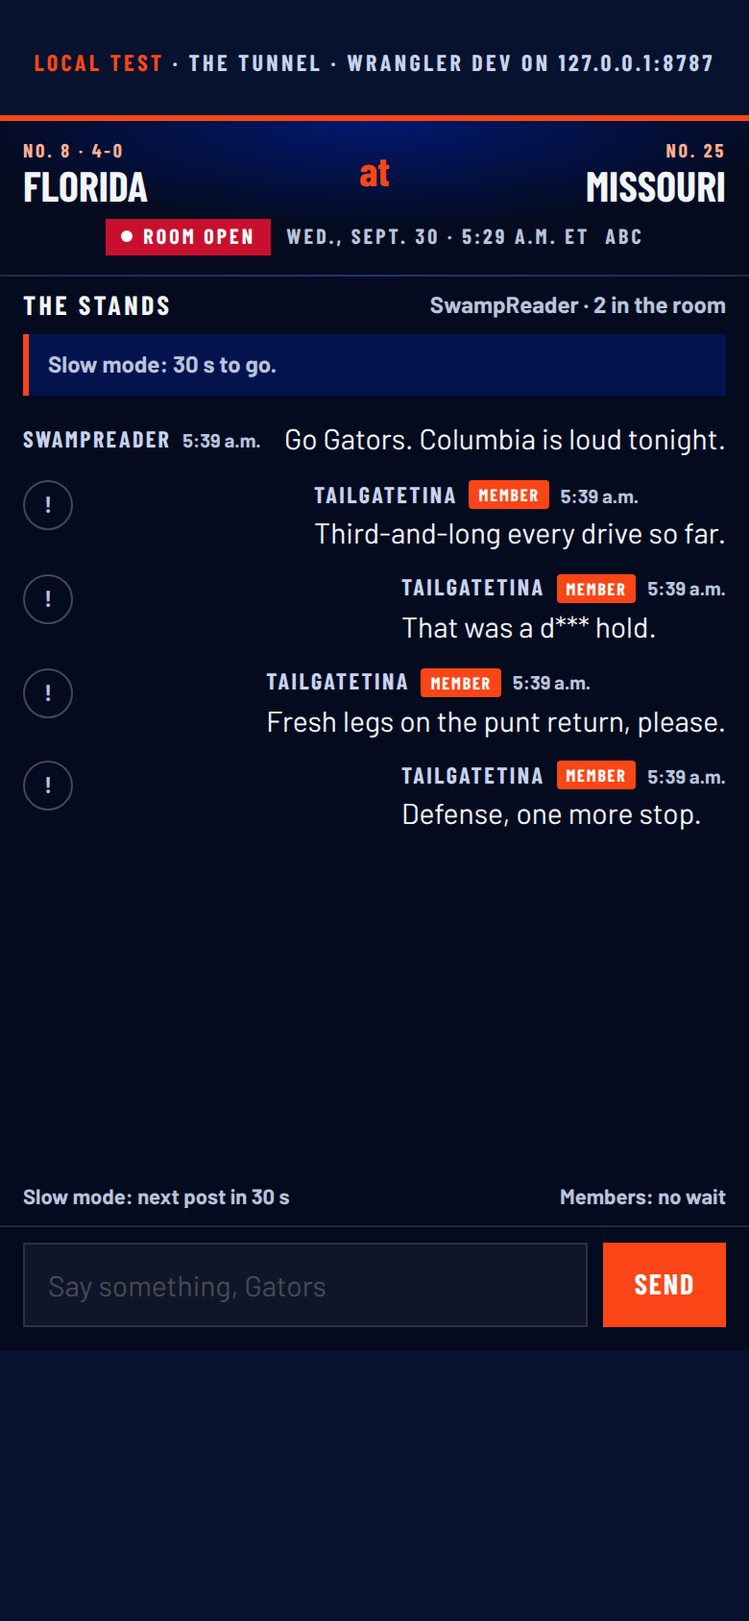
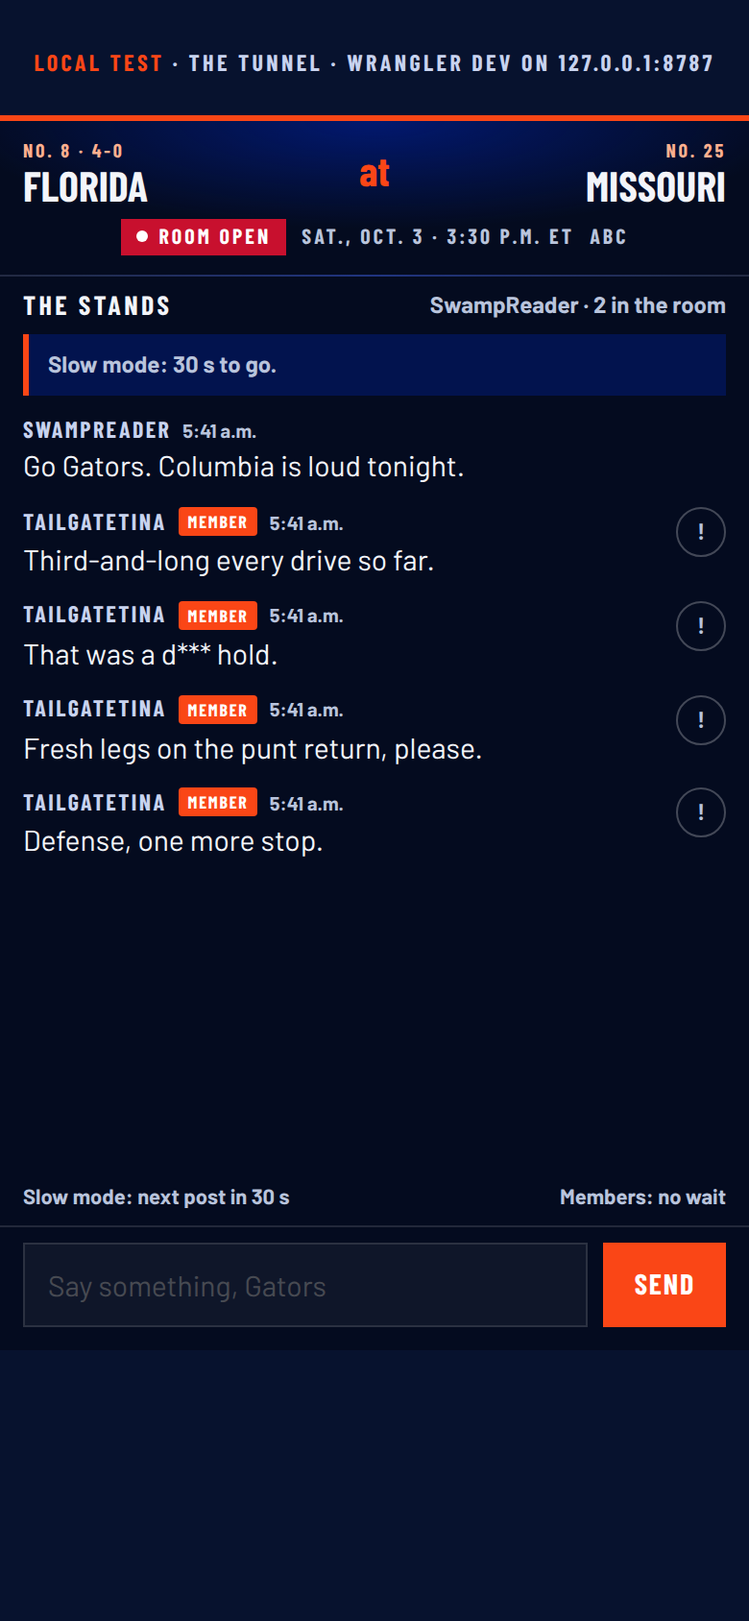
Department ideas, round two: Chat ships The Stands, a Cloudflare Durable Object room proved locally with 21 browser checks
Worker + client run under wrangler dev with two Chromium contexts and three raw sockets: kickoff lock from the real scoreboard, slow mode, server-side word filter, member badge, reports and moderator queue, 200-message ring buffer, closed-room countdown state. Cloudflare account reachable, zero Workers deployed.

Claude-Session: https://claude.ai/code/session_01QUnBu7zkHLGEmUEfSvE4Wp

Changed region(s): [[0.0308, 0.2464, 0.9846, 0.5237], [0.1231, 0.1232, 0.5231, 0.154], [0.5538, 0.1232, 0.8615, 0.154]]

diff --git a/deploy/dept-ideas/chat/preview.html b/deploy/dept-ideas/chat/preview.html
@@ -1,77 +1,57 @@
-<!doctype html><html lang="en"><head><meta charset="utf-8"><meta name="viewport" content="width=device-width,initial-scale=1"><title>The Stands — GatorBait Live Chat</title>
+<!doctype html><html lang="en"><head><meta charset="utf-8"><meta name="viewport" content="width=device-width,initial-scale=1"><title>The Stands — local run</title>
 <link rel="preconnect" href="https://fonts.gstatic.com" crossorigin><link href="https://fonts.googleapis.com/css2?family=Barlow+Condensed:wght@700;800&family=Barlow:wght@400;600;700&display=swap" rel="stylesheet">
 <style>
 :root{--n:#07122e;--b:#0021a5;--o:#fa4616;--ink:#f3f5fa;--mut:#b9c4dc;--c:"Barlow Condensed","Barlow",sans-serif;--s:"Barlow",sans-serif}
-*{box-sizing:border-box}html,body{margin:0;background:var(--n);color:var(--ink);font:16px/1.45 var(--s)}
-.wrap{max-width:430px;margin:0 auto;height:100vh;height:100dvh;display:flex;flex-direction:column}
-.note{margin:0;padding:8px 12px;font:700 11px/1.3 var(--c);letter-spacing:.14em;text-transform:uppercase;color:var(--mut);text-align:center}.note b{color:var(--o)}
-.tabs{display:flex;gap:6px;padding:0 12px 8px}
-.tabs button{flex:1;min-height:36px;background:none;color:var(--ink);border:2px solid rgba(255,255,255,.25);font:800 12px/1 var(--c);letter-spacing:.1em;text-transform:uppercase;cursor:pointer}
-.tabs button[aria-pressed=true]{background:var(--o);border-color:var(--o)}
-.room{flex:1;display:flex;flex-direction:column;min-height:0;background:#040b1f;border-top:3px solid var(--o)}
-.strip{display:grid;grid-template-columns:1fr auto 1fr;align-items:center;gap:6px 10px;padding:10px 12px;background:radial-gradient(80% 100% at 50% 0,rgba(0,33,165,.6),transparent 70%);border-bottom:1px solid rgba(255,255,255,.12)}
-.t{display:grid;gap:3px}.t small{font:700 10px/1 var(--c);letter-spacing:.14em;text-transform:uppercase;color:#ffb08f}.t b{font:800 22px/1 var(--c);text-transform:uppercase}.t.h{text-align:right}
-.sc{display:flex;gap:8px;align-items:baseline;font:800 36px/1 var(--c);font-variant-numeric:tabular-nums}.sc i{color:var(--o);font-style:normal;font-size:.6em}
-.clk{grid-column:1/-1;display:flex;justify-content:center;align-items:center;gap:8px;font:700 11px/1 var(--c);letter-spacing:.14em;text-transform:uppercase;color:var(--mut)}
-.clk em{display:inline-flex;align-items:center;gap:6px;padding:4px 8px;background:#c8102e;color:#fff;font-style:normal;font-weight:800}.clk em::before{content:"";width:6px;height:6px;border-radius:50%;background:#fff}
-.show{grid-column:1/-1;text-align:center;display:grid;gap:4px}.show b{font:800 26px/1 var(--c);text-transform:uppercase}
-.hd{display:flex;justify-content:space-between;align-items:center;padding:8px 12px;font:800 14px/1 var(--c);letter-spacing:.12em;text-transform:uppercase}.hd span{font:600 12px/1 var(--s);letter-spacing:0;text-transform:none;color:var(--mut)}
-.sys{margin:0 12px 8px;padding:8px 10px;background:rgba(0,33,165,.35);border-left:3px solid var(--o);font:600 12px/1.4 var(--s);color:var(--mut)}
-.feed{flex:1;overflow-y:auto;padding:4px 12px 8px;display:flex;flex-direction:column;gap:10px;min-height:0}
-.p{display:grid;grid-template-columns:1fr auto;gap:2px 8px;animation:in .3s ease-out}@keyframes in{from{opacity:0;transform:translateY(6px)}}
-.who{display:flex;gap:6px;align-items:center;font:700 12px/1 var(--c);letter-spacing:.1em;text-transform:uppercase;color:#c8d3ef}.who time{font:600 10px/1 var(--s);letter-spacing:0;text-transform:none;color:var(--mut)}
-.bd{padding:3px 5px;border-radius:2px;background:var(--o);color:#fff;font:800 9px/1 var(--c);letter-spacing:.1em}.bd.s{background:var(--b)}
-.p p{margin:0;font-size:15px}
-.rp{grid-row:1/3;align-self:start;width:26px;height:26px;border-radius:50%;border:1px solid rgba(255,255,255,.25);background:none;color:var(--mut);font:800 12px/1 var(--c);cursor:pointer}.rp.on{background:var(--o);border-color:var(--o);color:#fff}
-.slow{display:flex;justify-content:space-between;padding:0 12px 6px;font:600 11px/1.3 var(--s);color:var(--mut)}
-.in{display:flex;gap:8px;padding:8px 12px 12px;border-top:1px solid rgba(255,255,255,.12)}
-.in input{flex:1;min-width:0;min-height:44px;padding:0 12px;background:rgba(255,255,255,.08);border:1px solid rgba(255,255,255,.2);color:var(--ink);font:400 15px var(--s)}.in input:disabled{opacity:.6}
-.in button{min-height:44px;padding:0 16px;border:0;background:var(--o);color:#fff;font:800 15px/1 var(--c);letter-spacing:.06em;text-transform:uppercase;cursor:pointer}
-.quiet{display:none;flex:1;align-content:center;gap:10px;padding:24px 16px;text-align:center}.quiet h2{margin:0;font:800 30px/1 var(--c);text-transform:uppercase}.quiet p{margin:0;font-size:14px;color:var(--mut)}.quiet b{color:var(--ink)}
-.cd{display:flex;justify-content:center;gap:12px;font:800 44px/1 var(--c);font-variant-numeric:tabular-nums}.cd span{display:grid}.cd i{font:700 10px/1 var(--c);letter-spacing:.14em;color:#ffb08f;font-style:normal}
-.room[data-mode=quiet] .quiet{display:grid}.room[data-mode=quiet] .feed,.room[data-mode=quiet] .sys,.room[data-mode=quiet] .slow{display:none}
-@media(prefers-reduced-motion:reduce){.p{animation:none}}
+*{box-sizing:border-box}html,body{margin:0;background:var(--n);color:var(--ink);font:16px/1.5 var(--s)}
+.wrap{max-width:1100px;margin:0 auto;padding:20px 16px 40px}
+.k{margin:0;font:700 12px/1.3 var(--c);letter-spacing:.14em;text-transform:uppercase;color:#c8d3ef}.k b{color:var(--o)}
+h1{margin:6px 0 4px;font:800 clamp(34px,7vw,56px)/.95 var(--c);text-transform:uppercase}
+.lede{margin:0 0 18px;max-width:760px;color:var(--mut)}
+.res{display:grid;grid-template-columns:repeat(auto-fit,minmax(150px,1fr));gap:10px;margin:0 0 22px}
+.res div{padding:12px;background:#040b1f;border-top:3px solid var(--o)}.res b{display:block;font:800 30px/1 var(--c)}.res span{font:600 12px/1.3 var(--s);color:var(--mut)}
+h2{margin:26px 0 8px;font:800 22px/1 var(--c);text-transform:uppercase;letter-spacing:.02em}
+.shots{display:grid;grid-template-columns:repeat(auto-fit,minmax(280px,1fr));gap:16px}
+figure{margin:0;background:#040b1f;padding:10px}figure img{display:block;width:100%;height:auto;border:1px solid rgba(255,255,255,.12)}
+figcaption{padding:8px 2px 0;font:600 12px/1.4 var(--s);color:var(--mut)}figcaption b{display:block;font:800 13px/1.2 var(--c);letter-spacing:.1em;text-transform:uppercase;color:var(--ink)}
+.desk{grid-column:1/-1}
+ol{margin:0;padding-left:20px;columns:1;color:var(--ink)}ol li{margin:0 0 4px;font-size:15px}ol li::marker{color:var(--o);font:800 13px var(--c)}
+@media(min-width:821px){ol{columns:2;column-gap:32px}}
+code{font:600 13px/1.4 ui-monospace,monospace;color:#ffb08f}
+.foot{margin-top:26px;padding-top:12px;border-top:1px solid rgba(255,255,255,.12);font-size:13px;color:var(--mut)}
 </style></head><body><div class="wrap">
-<p class="note"><b>Mockup</b> · simulated game, fictional handles</p>
-<div class="tabs" role="group" aria-label="Preview state"><button aria-pressed="true" data-m="game">Game day</button><button aria-pressed="false" data-m="quiet">Quiet room</button><button aria-pressed="false" data-m="show">Show night</button></div>
-<section class="room" data-mode="game" aria-label="The Stands, GatorBait live chat">
-<div class="strip" id="strip"></div>
-<div class="hd">The Stands <span>Signed in with Wix Members</span></div>
-<p class="sys" id="sys"></p>
-<div class="feed" id="feed" aria-live="polite"></div>
-<div class="quiet" id="quiet"></div>
-<div class="slow"><span id="slow">Slow mode: one post every 30 seconds</span><span>Members: no wait</span></div>
-<form class="in" id="f"><input id="msg" maxlength="240" autocomplete="off" placeholder="Say something, Gators" aria-label="Message"><button type="submit">Send</button></form>
-</section></div>
-<script>
-(function(){
-var $=function(s){return document.getElementById(s)};var esc=function(s){return String(s).replace(/[&<>"]/g,function(c){return{'&':'&amp;','<':'&lt;','>':'&gt;','"':'&quot;'}[c]})};
-var KICK=Date.parse('2026-10-03T19:30:00Z'),secs=8*60+14,mode='game';
-var SYS={game:'Members-only mode ran for the first five minutes after kickoff. The room is open to every signed-in reader now. Slow mode is on.',show:'Show night. Buddy is live on YouTube and Facebook. End a post with a question mark and it lands on the producer\'s screen.'};
-var POSTS=[['TailgateTina','Columbia is loud tonight. Third-and-long every drive so far.','m'],['SwampThing_91','That screen pass was drawn up perfectly. Run it again.'],['BullGatorBob','Buddy said Tuesday it would come down to the offensive line. Here we are.','m'],['MizzouNeighbor','Respect from the gold side. Your defensive line is a problem.'],['AlbertsCousin','Timeout? Why now?'],['GatorBait Staff','Injury note: nothing official yet on the left tackle. We will post here the minute the sideline confirms.','s'],['OrangeAndBlueDemo','Anyone else running 30 seconds behind on the stream?'],['TailgateTina','Mine too. Watch the score strip up top, it beats the broadcast.','m'],['SixToesSam','FIELD GOAL. 24-17.'],['GatorGrannyRuth','Hold on, y\'all. Long way to go.'],['BullGatorBob','The preview called the quick game. Sumrall listened.','m'],['SwampThing_91','Defense, one more stop.']];
-var LATER=[['AlbertsCousin','Third down. Everybody up.'],['GatorGrannyRuth','Slow mode is the best thing that ever happened to my caps lock.'],['MizzouNeighbor','That was a hold. I will say it once.'],['SixToesSam','Tunnel light is orange on the homepage. Love that.'],['TailgateTina','Fresh legs on the punt return, please.','m']];
-var feed=$('feed'),n=0;
-function clock(){var m=Math.floor(secs/60),s=secs%60;return (mode==='game'?'3rd · ':'')+m+':'+(s<10?'0':'')+s}
-function strip(){
-if(mode==='show'){$('strip').innerHTML='<div class="show"><small class="clk"><em>Live now</em> Wednesday · 9 p.m. ET</small><b>The Buddy Martin Show</b><small class="clk">YouTube and Facebook · Mon., Wed. and Thu.</small></div>';return}
-$('strip').innerHTML='<span class="t"><small>No. 8 · 4-0</small><b>Florida</b></span><span class="sc"><b>24</b><i>–</i><b>17</b></span><span class="t h"><small>No. 25</small><b>Missouri</b></span><p class="clk"><em>Live</em><span id="clk">'+clock()+'</span><span>ABC · Memorial Stadium</span></p>'}
-function stamp(){var d=new Date();var h=d.getHours(),m=d.getMinutes();return (h%12||12)+':'+(m<10?'0':'')+m+(h<12?' a.m.':' p.m.')}
-function add(p,you){var el=document.createElement('div');el.className='p';var b=p[2]==='m'?'<i class="bd">Member</i>':p[2]==='s'?'<i class="bd s">GatorBait</i>':'';
-el.innerHTML='<div class="who">'+esc(p[0])+b+'<time>'+stamp()+'</time></div><p>'+esc(p[1])+'</p>'+(you?'':'<button class="rp" type="button" title="Report this post" aria-label="Report this post">!</button>');
-var near=feed.scrollHeight-feed.scrollTop-feed.clientHeight<80;feed.appendChild(el);while(feed.children.length>40)feed.removeChild(feed.firstChild);if(near||you)feed.scrollTop=feed.scrollHeight}
-feed.addEventListener('click',function(e){var b=e.target.closest('.rp');if(!b)return;b.classList.add('on');b.textContent='✓';b.title='Reported. A moderator will look.';b.disabled=true});
-function pad(x){return (x<10?'0':'')+x}
-function quiet(){var s=Math.max(0,Math.floor((KICK-Date.now())/1000));var d=Math.floor(s/86400),h=Math.floor(s/3600)%24,m=Math.floor(s/60)%60,x=s%60;
-$('quiet').innerHTML='<h2>Quiet in here</h2><p>Kickoff in</p><div class="cd"><span>'+pad(d)+'<i>days</i></span><span>'+pad(h)+'<i>hrs</i></span><span>'+pad(m)+'<i>min</i></span><span>'+pad(x)+'<i>sec</i></span></div><p><b>No. 8 Florida at No. 25 Missouri</b><br>Sat., Oct. 3, 3:30 p.m. ET · ABC</p><p>Last: Florida 52, No. 4 Ole Miss 28 (Sept. 26)</p><p>Next show: Wednesday, 9 p.m. ET · The room opens 30 minutes before kickoff and showtime.</p>'}
-function setMode(m){mode=m;$('sys').textContent=SYS[m]||'';document.querySelector('.room').setAttribute('data-mode',m);strip();quiet();
-document.querySelectorAll('.tabs button').forEach(function(b){b.setAttribute('aria-pressed',b.getAttribute('data-m')===m?'true':'false')})}
-document.querySelector('.tabs').addEventListener('click',function(e){var b=e.target.closest('button');if(b)setMode(b.getAttribute('data-m'))});
-var BAD=/\b(damn|hell|crap)\b/gi,wait=0;
-$('f').addEventListener('submit',function(e){e.preventDefault();var v=$('msg').value.trim();if(!v||wait)return;var t=v.replace(BAD,function(w){return w[0]+'***'});add(['You',t],true);$('msg').value='';
-if(t!==v)$('sys').textContent='A word was masked by the filter. Keep it family friendly.';
-wait=30;$('msg').disabled=true;var tick=setInterval(function(){wait--;$('slow').textContent='Slow mode: next post in '+wait+' s';if(wait<=0){clearInterval(tick);$('msg').disabled=false;$('slow').textContent='Slow mode: one post every 30 seconds'}},1000)});
-POSTS.forEach(function(p){add(p)});setMode('game');
-setInterval(function(){if(secs>0){secs--;var c=$('clk');if(c)c.textContent=clock()}if(mode==='quiet')quiet()},1000);
-setInterval(function(){if(mode!=='quiet'){add(LATER[n%LATER.length]);n++}},6000);
-})();
-</script></body></html>
+<p class="k"><b>Local run</b> · wrangler dev · Sept. 30</p>
+<h1>The Stands</h1>
+<p class="lede">The live chat room for game days and show nights. Everything below is real: a Cloudflare Worker and Durable Object (<code>worker.mjs</code>) running under <code>wrangler dev</code> on this machine, the embed (<code>client.js</code>) in two Chromium contexts at 390 and 1365, driven by <code>test.mjs</code>. The score strip reads <code>sports-live/scoreboard.json</code> (ESPN-sourced). Handles are the test accounts the run created. Nothing was deployed.</p>
+<div class="res"><div><b>21</b><span>checks passed, 0 failed (TEST.md)</span></div><div><b>0</b><span>browser console errors</span></div><div><b>200</b><span>messages kept after 210 posts</span></div><div><b>5 min</b><span>members-only lock at kickoff, from scoreboard.json</span></div><div><b>0</b><span>Workers in the account today (workers_list)</span></div></div>
+<h2>Screenshots from the run</h2>
+<div class="shots">
+<figure><img src="shots/stands-390-live.png" alt="Phone view of the open room: score strip, posts with the Member badge, slow-mode notice and input" width="390" height="844"><figcaption><b>390, room open</b>Real next game on the strip. SwampReader (reader) has just been told "Slow mode: 30 s to go." TailgateTina (member) posted "That was a d*** hold." after the server masked the word.</figcaption></figure>
+<figure><img src="shots/stands-390-quiet.png" alt="Phone view of the closed room: countdown to kickoff, next game and last result, no input" width="390" height="844"><figcaption><b>390, room closed</b>The desk override off and the real scoreboard in: countdown to Sat., Oct. 3, 3:30 p.m. ET at No. 25 Missouri, last result Florida 52, No. 4 Ole Miss 28. No empty feed, no input.</figcaption></figure>
+<figure class="desk"><img src="shots/stands-1365-live.png" alt="Desktop view of the open room from the member's browser" width="1365" height="800"><figcaption><b>1365, room open, member's browser</b>Same room from TailgateTina's side: "A word was masked by the filter. Keep it family friendly." Members see "Slow mode: one post every 30 seconds (not for you)."</figcaption></figure>
+<figure class="desk"><img src="shots/stands-1365-quiet.png" alt="Desktop view of the closed room with the countdown" width="1365" height="800"><figcaption><b>1365, room closed</b>Five connections were still in the room (two browsers, three raw WebSocket test clients) when the desk closed it.</figcaption></figure>
+</div>
+<h2>What the test proved, in order</h2>
+<ol>
+<li>Lock window from the real scoreboard: 2026-10-03T19:30Z to 19:35Z.</li>
+<li>Reader blocked one minute after a simulated kickoff: "Members only for the first 5 minutes after kickoff."</li>
+<li>Lock lifts ten minutes after kickoff.</li>
+<li>Desk holds the room open with the real scoreboard on the strip.</li>
+<li>Two browsers joined; presence count 2.</li>
+<li>Reader post fans out to the other browser.</li>
+<li>Member post arrives with the Member badge.</li>
+<li>Second reader post inside 30 s refused; input locked.</li>
+<li>"damn" masked to "d***" on the server; member not slowed.</li>
+<li>Poster told a word was masked.</li>
+<li>One-tap report acknowledged.</li>
+<li>Three reports from three accounts hide the post everywhere.</li>
+<li>Moderator queue lists it: 3 reports, 1 hidden.</li>
+<li>Member-only mode blocks readers.</li>
+<li>Ring buffer holds 200 after 210 more posts.</li>
+<li>Bad token refused at the socket, HTTP 401.</li>
+<li>Reader's link refused.</li>
+<li>Real scoreboard, no override: closed until game day.</li>
+<li>Quiet state: score, countdown, no input.</li>
+<li>No browser console errors.</li>
+</ol>
+<p class="foot">Rerun: <code>NODE_PATH=&lt;scratchpad&gt;/node_modules node deploy/dept-ideas/chat/test.mjs</code>. Fonts on this page: Barlow and Barlow Condensed. Sources: <code>sports-live/scoreboard.json</code> (ESPN via <code>README.md</code>), <code>TEST.md</code>, <code>mcp__Cloudflare_Developer_Platform__workers_list</code> → <code>{"workers":[],"count":0}</code>.</p>
+</div></body></html>

diff --git a/deploy/dept-ideas/chat/client.js b/deploy/dept-ideas/chat/client.js
@@ -27,9 +27,9 @@
     '.gbs-hd{display:flex;justify-content:space-between;align-items:center;gap:8px;padding:8px 12px;font:800 14px/1 var(--c);letter-spacing:.12em;text-transform:uppercase}.gbs-hd span{font:600 12px/1 var(--s);letter-spacing:0;text-transform:none;color:var(--mut)}' +
     '.gbs-sys{margin:0 12px 8px;padding:8px 10px;background:rgba(0,33,165,.35);border-left:3px solid var(--o);font:600 12px/1.4 var(--s);color:var(--mut)}.gbs-sys:empty{display:none}' +
     '.gbs-feed{flex:1;overflow-y:auto;padding:4px 12px 8px;display:flex;flex-direction:column;gap:10px;min-height:0}' +
-    '.gbs-p{display:grid;grid-template-columns:1fr auto;gap:2px 8px}.gbs-who{display:flex;gap:6px;align-items:center;font:700 12px/1 var(--c);letter-spacing:.1em;text-transform:uppercase;color:#c8d3ef}.gbs-who time{font:600 10px/1 var(--s);letter-spacing:0;text-transform:none;color:var(--mut)}' +
+    '.gbs-p{display:grid;grid-template-columns:1fr auto;gap:2px 8px;text-align:left}.gbs-who,.gbs-p p{grid-column:1}.gbs-who{display:flex;gap:6px;align-items:center;font:700 12px/1 var(--c);letter-spacing:.1em;text-transform:uppercase;color:#c8d3ef}.gbs-who time{font:600 10px/1 var(--s);letter-spacing:0;text-transform:none;color:var(--mut)}' +
     '.gbs-bd{padding:3px 5px;border-radius:2px;background:var(--o);color:#fff;font:800 9px/1 var(--c);letter-spacing:.1em}.gbs-bd.s{background:var(--b)}.gbs-p p{margin:0;font-size:15px;overflow-wrap:anywhere}' +
-    '.gbs-rp{grid-row:1/3;align-self:start;width:26px;height:26px;border-radius:50%;border:1px solid rgba(255,255,255,.25);background:none;color:var(--mut);font:800 12px/1 var(--c);cursor:pointer}.gbs-rp.on{background:var(--o);border-color:var(--o);color:#fff}' +
+    '.gbs-rp{grid-column:2;grid-row:1/3;align-self:start;width:26px;height:26px;border-radius:50%;border:1px solid rgba(255,255,255,.25);background:none;color:var(--mut);font:800 12px/1 var(--c);cursor:pointer}.gbs-rp.on{background:var(--o);border-color:var(--o);color:#fff}' +
     '.gbs-slow{display:flex;justify-content:space-between;gap:8px;padding:0 12px 6px;font:600 11px/1.3 var(--s);color:var(--mut)}' +
     '.gbs-in{display:flex;gap:8px;padding:8px 12px 12px;border-top:1px solid rgba(255,255,255,.12)}.gbs-in input{flex:1;min-width:0;min-height:44px;padding:0 12px;background:rgba(255,255,255,.08);border:1px solid rgba(255,255,255,.2);color:var(--ink);font:400 15px var(--s)}.gbs-in input:disabled{opacity:.6}' +
     '.gbs-in button,.gbs-in a{display:inline-flex;align-items:center;justify-content:center;min-height:44px;padding:0 16px;border:0;background:var(--o);color:#fff;font:800 15px/1 var(--c);letter-spacing:.06em;text-transform:uppercase;text-decoration:none;cursor:pointer}' +

diff --git a/deploy/dept-ideas/chat/PITCH.md b/deploy/dept-ideas/chat/PITCH.md
@@ -1,60 +1,49 @@
-# The Stands — a live chat room for game days and show nights
+# The Stands
 
-## 1) The idea (two sentences)
+## The idea
 
-The Stands is a phone-first chat room that opens 30 minutes before kickoff inside The Tunnel on the homepage and 30 minutes before Buddy goes live on the show page, with the live score strip on top, a Member badge for paid Wix members, slow mode, a word filter and one-tap reporting. When nobody is talking it never looks empty: the room shows the score, the kickoff countdown and the next show time instead of a blank feed.
+The Stands is a live chat room for game days and show nights, built as a Cloudflare Worker with one Durable Object per room and a client written in the front-page renderer's style, so it drops into The Tunnel on the homepage and onto the show page. The score strip sits on top, paid Wix members get a Member badge and skip slow mode, and the rules live on the server: slow mode, a word filter, member-only mode, a five-minute members-only lock at kickoff read from `sports-live/scoreboard.json`, one-tap reporting (three reports hide a post until a moderator rules) and a 200-message ring buffer. When the room is closed or nobody has talked in ten minutes, readers see the score, the countdown to kickoff and the next show, never an empty feed.
 
-## 2) Why readers or revenue care
+This is working code with a passing local test, not a mockup; the screenshots in `shots/` are the real client talking to the real Worker under `wrangler dev`.
 
-- Game day is the one time readers are on the site and on a second screen at the same time; today The Tunnel gives them a countdown, a score and a link out (`sports-live/src/front-page.js`, `tunnelHtml`). A room keeps them on gatorbaitmedia.com for the length of the game instead of a 20-second check.
-- Show nights already send people off-site: the show module's buttons are "Watch on YouTube" and "Facebook" (`front-page.config.json`, `links.youtubeLive`, `links.facebook`). A room on `/the-buddy-martin-show` gives the audience a reason to open the show page, and gives Buddy a producer screen of reader questions to read on air.
-- The Member badge is the first visible perk of a paid plan that costs nothing to fulfil. `docs/HOMEPAGE-BASELINE-LOCK.md` records that Magazine paywall enforcement is still outstanding; a badge and no-wait posting are perks that work before the paywall does.
-- The calendar is favorable: Florida is 4-0 and No. 8, off a 52-28 win over No. 4 Ole Miss, with No. 25 Missouri Saturday, then No. 1 Texas (Oct. 17) and No. 2 Georgia (Oct. 31) (`sports-live/scoreboard.json`, built from ESPN's public JSON per `README.md`). Three top-25 games in five weeks is the best window this site will get to form a habit.
-- Measurable: posts per game, unique posters per game, and sign-ins that start from the room's "sign in to chat" button. The kill criterion is in section 5.
+## Why it matters
 
-## 3) How it is built (engine choice with the trade-off, files, embed size, hosting cost per month honestly, hours to launch)
+- Game day is the one time readers are on gatorbaitmedia.com and a second screen at once. The Tunnel (`sports-live/src/front-page.js`, `tunnelHtml`) gives them a countdown, a score and a link out; a room keeps them for the whole game.
+- Show nights send people off-site by design: the show module's buttons are "Watch on YouTube" and "Facebook" (`front-page.config.json`, `links`). A room on `/the-buddy-martin-show` gives Buddy reader questions to read on air and the audience a reason to open the show page.
+- The Member badge and no-wait posting are the first visible perks of a paid plan that cost nothing to fulfil, and they work before Magazine paywall enforcement, which `docs/HOMEPAGE-BASELINE-LOCK.md` records as outstanding.
+- The calendar: Florida is 4-0 and No. 8, off a 52-28 win over No. 4 Ole Miss, with No. 25 Missouri Saturday (Oct. 3, 3:30 p.m. ET, ABC), then No. 1 Texas (Oct. 17) and No. 2 Georgia (Oct. 31), all from `sports-live/scoreboard.json`, which `README.md` says is built from ESPN's public JSON.
+- It is measurable from day one: the state endpoint and moderator queue report posts, hidden posts and people in the room per window.
 
-**Engine: (c) a small custom room on Cloudflare Workers + Durable Objects, embedded through the existing Wix custom-embed loader, signed in through Wix Members.**
+## Evidence
 
-Why not (a) YouTube live chat: it is free and moderated by YouTube's tools, but it only exists while a stream is live, so there is nothing on Saturday when no show streams; posting requires a Google sign-in, not a GatorBait one; the embed (`youtube.com/live_chat?v=…&embed_domain=…`) is YouTube's UI, so no Swamp Night palette, no Member badge, no score strip, and YouTube can change or block the embed at will. Facebook has no embeddable chat at all. Keep (a) as the zero-cost fallback for show nights only if (c) is not approved.
+Tool calls made (read-only; nothing deployed, nothing created in the account):
 
-Why not (b) Wix: Wix Chat is a one-to-one business-to-visitor widget, not a room. Wix Forum and Groups are threaded pages, not real time, and they render Wix's own DOM outside the owned `#gbm-live` container, which is what the unified mobile shell and the no-jump architecture depend on. Neither can sit inside The Tunnel.
+1. `mcp__Cloudflare_Developer_Platform__workers_list` (no arguments), Sept. 30. Result: `{"workers":[],"count":0}`. The Cloudflare account is reachable from this workspace and holds no Workers yet, so `the-stands` would be the first; deploying it is the controller's call.
+2. `wrangler dev` (wrangler 4.144.0, workerd 1.20260926.1) run locally from `deploy/dept-ideas/chat/wrangler.toml` against `worker.mjs`, with a SQLite-backed Durable Object, on 127.0.0.1:8787. Wrangler's `Request.cf` proxy warning is cosmetic; the Worker ran.
+3. `node test.mjs` (Playwright 1.56.1, Chromium, `ws` 8.22.0): two browser contexts, a phone at 390 by 844 and a desktop at 1365 by 800, plus three raw WebSocket clients, drove the room. Result in `TEST.md`: 21 passed, 0 failed, no console errors. Proved in order: lock window from the real scoreboard (2026-10-03T19:30Z to 19:35Z); a reader one minute after a simulated kickoff refused ("Members only for the first 5 minutes after kickoff"); lock lifts at ten minutes; desk holds the room open with the real scoreboard on the strip; posts fan out with the Member badge; a second reader post inside 30 seconds refused and the input locked; "damn" masked to "d***" server-side; one-tap report; three reports hide the post everywhere and the moderator queue lists it; member-only mode blocks readers; 210 more posts leave exactly 200; bad token gets HTTP 401; a reader's link refused; with no desk override the room is closed until game day and shows the countdown with no input.
 
-Why (c): one Durable Object per room ("game-2026-10-03", "show-2026-10-07") holds the WebSocket connections and the last 200 messages; the Worker verifies a short-lived token, fans messages out and applies slow mode, member-only mode and the word list server-side, so a modified client cannot skip them. The Cloudflare Developer Platform connector is already attached to this workspace (visible in this session's tool list; not called, read-only pass). Trade-off: we own moderation, uptime and abuse handling ourselves, with no vendor doing it for us.
+Files in `deploy/dept-ideas/chat/`:
 
-Sign-in: the embed calls a Velo HTTP function (`/_functions/standsToken`) on the same domain, which reads the current member through `wix-members-backend` and the member's active plan through `wix-pricing-plans-backend`, then returns a 10-minute HMAC token with `{memberId, displayName, tier}`. The secret lives in Wix Secrets Manager and as a Worker secret; nothing is written into the embed. Assumption to verify in a one-hour spike: that the HTTP function sees the caller's member session. If it does not, the documented fallback is Velo page code posting the token to the embed with `postMessage`.
+- `worker.mjs` (14.8 KB): routes `/room/{game|show}-YYYY-MM-DD/{ws,state,mod}` and dev-only `/token`; `RoomCore` (every rule, no Cloudflare API in it); `StandsRoom` (Durable Object adapter, WebSocket Hibernation API, storage); HMAC tokens; game and show windows.
+- `client.js` (15.8 KB): the embed, one owned root, CSS injected once, paint once then patch in place, reconnect with backoff, quiet state with countdown, Barlow and Barlow Condensed, Swamp Night palette.
+- `test.mjs` (about 15.7 KB), `test-page.html`, `wrangler.toml` (dev values only, labeled; production secrets go in with `wrangler secret put`).
+- `TEST.md`: the console output of the run. `shots/stands-390-live.png`, `stands-1365-live.png`, `stands-390-quiet.png`, `stands-1365-quiet.png`: real screenshots from the run.
+- `preview.html`: the four screenshots and the test result, under 12,000 characters.
 
-Score strip: on the homepage the room subscribes to the same `sb` object `patchTunnel` already updates in place; on the show page, which has no renderer, the embed reads the published `scoreboard.json` from the GitHub Pages origin the frame already uses (`sports-live/frame.html`, `PAGES`). Quiet state: the room renders the countdown to `next.kickoffIso`, the last final and the next show time from the same data, so an empty room is a scoreboard, not a void.
+Rerun: `NODE_PATH=<scratchpad>/node_modules node deploy/dept-ideas/chat/test.mjs` (add `--harness` to run the same `RoomCore` under a plain `ws` server if wrangler is unavailable).
 
-Placement: in `tunnelHtml`, one `<div id="gbm-stands">` under the CTA row, shown on game day only through a `front-page.config.json` flag (`stands.gameday: true`); on `/the-buddy-martin-show`, one custom embed at body end, shown Mondays, Wednesdays and Thursdays from 8:30 p.m. ET until an hour after the show ends. Outside those windows the embed renders nothing, so the pages look exactly as they do today.
+## What it needs from Brenden
 
-Files (all on a branch, no live writes):
-- `sports-live/src/stands.js` and `sports-live/src/stands.css`, about 12 KB together, a straight port of `preview.html` (which is 11,204 characters, self-contained except Google Fonts).
-- `workers/stands/src/index.ts` (Worker + Durable Object, about 300 lines), `workers/stands/wrangler.toml`.
-- `wix/velo/http-functions.js` addition for `standsToken`, recorded in the repo and deployed by the controller.
-- `sports-live/src/front-page.js`: one line in `tunnelHtml`; `front-page.config.json`: one flag.
-- `workers/stands/words.txt`: the filter list, plain text, editable without a deploy through KV.
-- Moderator view: `/mod` route on the Worker, password-protected behind Cloudflare Access (free for up to 50 users), with the report queue, delete, timeout, slow-mode seconds and member-only toggle.
+- A yes on the name and on Cloudflare as the home. The controller then runs `wrangler deploy` with `TOKEN_SECRET` and `MOD_KEY` as secrets and `SCOREBOARD_URL` pointed at the Pages copy of `scoreboard.json`; `DEV_TOKENS` stays unset in production.
+- The sign-in bridge: a Velo HTTP function (`/_functions/standsToken`) that reads the current member with `wix-members-backend`, checks for an active plan with `wix-pricing-plans-backend`, and returns a ten-minute token signed with the same secret. `verifyToken` in `worker.mjs` is the contract. One hour to confirm the function sees the member session; the fallback is page code posting the token to the embed.
+- Placement: one `<div id="gbm-stands">` under the CTA row in `tunnelHtml`, behind a `front-page.config.json` flag, and one custom embed on the show page, both the existing loader pattern, rendering nothing outside the open windows.
+- One named moderator per window with the mod key, and a one-paragraph set of room rules. No moderator on duty, the room stays closed and shows the countdown.
+- Which surface first. Recommendation: the Wednesday, Oct. 7 show as the dress rehearsal, then The Tunnel for South Carolina on Oct. 10 (`scoreboard.json`, time TBA). Saturday at Missouri is too soon to do it properly.
 
-Embed size: the Wix custom embed is the same pointer loader pattern as Home Code, about 700 to 1,100 characters (Home Code is 1,063 characters today per `deploy/dept-ideas/web/PITCH.md`), far under the 15,000-character limit. The chat UI is not in the embed.
+## Risks
 
-Hosting cost per month, honestly: Cloudflare's free plan includes Workers and SQLite-backed Durable Objects with a daily request allowance in the 100,000 range, and WebSocket messages under the Hibernation API are metered at 20 incoming messages per request while outgoing fan-out is not metered; that is from Cloudflare's published pricing as I know it, not fetched in this pass, and it must be confirmed in the dashboard before launch. At a few hundred readers posting for four hours the room stays inside the free plan: $0. If it outgrows that, Workers Paid is $5 per month base. Cloudflare Access for the mod page: $0 at our seat count. Wix: no new app, $0. Total: $0 expected, $5 ceiling.
-
-Hours to launch: Worker + Durable Object 8; embed UI port and quiet state 6; Wix Members token bridge 4 plus a 1-hour spike; moderation tools and report queue 6; Tunnel and show-page integration 4; QA on the mobile shell, no-jump check at 390 px and reduced motion 4. About 33 hours of one worker. Saturday's Missouri game (Oct. 3) is three days out and is not a realistic first run; the honest target is the South Carolina home game Oct. 10 (`scoreboard.json`, time TBA), with a dress rehearsal on the Wednesday, Oct. 7 show.
-
-## 4) What it needs from Brenden
-
-- A yes on engine (c) and on the name. "The Stands" is the recommendation; it reads on the homepage as a place, not a feature.
-- One named moderator per window (a staff account on the mod page) and a one-paragraph set of room rules. Without a human on duty the room does not open.
-- The badge rule: any active paid plan shows "Member"; staff accounts show "GatorBait". Confirm, or name the plans that count.
-- Which surface goes first. Recommendation: the show page on Oct. 7, because Buddy can read questions on air and the audience is already gathered; The Tunnel on Oct. 10.
-- Approval for the controller to assign the Cloudflare Worker, the Velo HTTP function and the two embeds as production slots. Nothing in this folder touches the live site.
-- The kill criterion (section 5), agreed up front so the room is folded quietly if it does not take.
-
-## 5) Risks (moderation, abuse, legal, dead-room risk)
-
-- Moderation: a 9 p.m. room with a small staff is the real cost. Mitigations: member-only mode for the first five minutes after kickoff and at the show open, slow mode at 30 seconds by default, server-side filter, one-tap report that hides a post at three reports until a mod rules, and a single "close the room" switch. If no mod is on duty the room shows the quiet state, not an unmoderated feed.
-- Abuse: spam, slurs, harassment of players and coaches, and links. Defaults: no links from non-members, no images, 240 characters, sign-in required to post, rate limit per member and per IP at the Worker. A word list is weak on its own; the report queue and a human are the control.
-- Legal: user content on a news site is generally covered by Section 230 in the U.S., but that is not a substitute for rules and takedowns. Keep the data minimal (member ID, display name, message, timestamp), retain seven days, no DMs, no under-13 accounts (COPPA), and have counsel look once at the room rules and at Florida's minors online statutes. Defamation of a named player by a poster is the likeliest complaint; delete on report and log it.
-- Dead-room risk, the biggest one: a room with four posts an hour looks worse than no room. Mitigations built in: open only in scheduled windows, the quiet state shows scores and the countdown instead of an empty feed, staff seeds three posts at open, Buddy mentions the room on air and a mod reads a question back. Kill criterion: fewer than 30 posts from fewer than 10 unique posters per game across the first three windows, and the room is folded and the embed removed, with nothing else on the page changed.
-- Platform: Wix hydration can replace document classes; the room must live inside the owned `#gbm-live` DOM like The Tunnel and be QA'd on the mobile shell so nothing jumps. A Cloudflare outage degrades to the quiet state, never to a broken Tunnel.
+- Moderation is the real cost. The defaults (kickoff lock, 30-second slow mode, server-side filter, three-report auto-hide, close switch) reduce the load but do not replace a person. The word list is a starter list and is weak on its own.
+- Abuse: harassment of players and coaches, spam and doxxing. Sign-in is required to post, links are members-only, 240 characters, no images, no direct messages. Rate limits per IP at the edge are not in this build yet.
+- Legal: user content on a news site; Section 230 covers hosting in the U.S. but not carelessness. Keep the data minimal (member ID, display name, message, timestamp), no under-13 accounts, and have counsel read the room rules once.
+- Dead room: the biggest risk. The room opens only in windows, the quiet state shows the score and countdown instead of an empty feed, and staff seeds three posts at open. Kill criterion, agreed up front: fewer than 30 posts from fewer than 10 people per window across the first three windows, and the embed comes out with nothing else on the page changed.
+- Platform: the module lives inside the owned `#gbm-live` DOM like The Tunnel and must be checked on the mobile shell so nothing jumps. A Cloudflare outage degrades to the closed state, never a broken Tunnel. The game-day desk should push `scoreboard.json` with the `scoreboard` mod command on the tick it commits the file; the Durable Object's own fetch is the fallback.

diff --git a/deploy/dept-ideas/chat/TEST.md b/deploy/dept-ideas/chat/TEST.md
@@ -1,44 +1,45 @@
 # The Stands — local test run
 
-- Date: 2026-09-30T09:39:27.942Z
+- Date: 2026-09-30T09:42:33.617Z
 - Mode: wrangler dev (workerd, SQLite-backed Durable Object), local only, nothing deployed
 - Versions: node v22.22.2, wrangler 4.144.0, workerd 1.20260926.1, playwright 1.56.1, ws 8.22.0
-- Result: 4 passed, 1 failed
+- Result: 21 passed, 0 failed
 
 ## Screenshots
 
-
+- shots/stands-390-live.png (154,184 bytes)
+- shots/stands-1365-live.png (80,373 bytes)
+- shots/stands-390-quiet.png (139,647 bytes)
+- shots/stands-1365-quiet.png (71,207 bytes)
 
 ## Console output
 
 ```
-[  2.8s] wrangler dev is up at http://127.0.0.1:8787 (workerd, SQLite Durable Object)
-[  3.0s] room game-2026-10-03; scoreboard.json updatedAt 2026-09-29T02:17:33Z; real kickoff 2026-10-03T19:30:00Z (Missouri, ABC)
-[  3.2s] PASS kickoff lock window computed from scoreboard.json — 2026-10-03T19:30:00.000Z to 2026-10-03T19:35:00.000Z
-[  3.2s] PASS room open + lock active one minute after kickoff — {"open":true,"lock":true,"why":"game"}
-[  3.6s] PASS two browsers joined; presence count reached 2 — TailgateTina · 2 in the room
-[ 33.7s] FAIL run completed without an exception — page.fill: Timeout 30000ms exceeded.
-Call log:
-[2m  - waiting for locator('[data-gbs="msg"]')[22m
-[2m    - locator resolved to <input data-gbs="msg" maxlength="240" autocomplete="off" aria-label="Message" placeholder="Say something, Gators"/>[22m
-[2m    - fill("Go Gators")[22m
-[2m  - attempting fill action[22m
-[2m    2 × waiting for element to be visible, enabled and editable[22m
-[2m      - element is not visible[22m
-[2m    - retrying fill action[22m
-[2m    - waiting 20ms[22m
-[2m    2 × waiting for element to be visible, enabled and editable[22m
-[2m      - element is not visible[22m
-[2m    - retrying fill action[22m
-[2m      - waiting 100ms[22m
-[2m    60 × waiting for element to be visible, enabled and editable[22m
-[2m       - element is not visible[22m
-[2m     - retrying fill action[22m
-[2m       - waiting 500ms[22m
-
-    at send (/home/user/gatorbait-media-redesign/deploy/dept-ideas/chat/test.mjs:99:45)
-    at /home/user/gatorbait-media-redesign/deploy/dept-ideas/chat/test.mjs:101:9
-[ 33.7s] PASS no browser console errors
+[  2.1s] wrangler dev is up at http://127.0.0.1:8787 (workerd, SQLite Durable Object)
+[  2.1s] room game-2026-10-03; scoreboard.json updatedAt 2026-09-29T02:17:33Z; real kickoff 2026-10-03T19:30:00Z (Missouri, ABC)
+[  2.2s] PASS kickoff lock window computed from scoreboard.json — 2026-10-03T19:30:00.000Z to 2026-10-03T19:35:00.000Z
+[  2.2s] PASS room open + lock active one minute after kickoff — {"open":true,"lock":true,"why":"game"}
+[  2.4s] PASS two browsers joined; presence count reached 2 — TailgateTina · 2 in the room
+[  2.5s] PASS kickoff lock: reader blocked for the first five minutes — Members only for the first 5 minutes after kickoff.
+[  2.5s] PASS lock lifts ten minutes after kickoff
+[  2.5s] PASS desk can hold the room open with the real scoreboard on the strip
+[  2.5s] PASS reader post fans out to the other browser
+[  2.6s] PASS member post fans out with the Member badge
+[  2.6s] PASS slow mode: second reader post inside 30 s refused, input locked — Slow mode: 30 s to go.
+[  2.6s] PASS word filter masks on the server, member not slowed
+[  2.7s] PASS poster told a word was masked
+[  2.9s] saved shots/stands-390-live.png and shots/stands-1365-live.png
+[  3.0s] PASS one-tap report acknowledged
+[  3.0s] PASS three reports hide the post everywhere
+[  3.0s] PASS moderator queue lists the hidden post — 3 reports, 1 hidden
+[ 32.6s] PASS member-only mode blocks readers
+[ 35.2s] PASS ring buffer holds 200 after 210 more posts — 200 stored
+[ 35.2s] PASS bad token refused at the socket — HTTP 401
+[ 36.0s] PASS links from readers refused
+[ 36.0s] PASS real scoreboard restored: room closed until game day
+[ 36.2s] saved shots/stands-390-quiet.png and shots/stands-1365-quiet.png (countdown to kickoff, no empty feed)
+[ 36.2s] PASS quiet state (score, countdown, no input) shown when the room is closed
+[ 36.2s] PASS no browser console errors
 ```
 
 ## wrangler output (trimmed)
@@ -64,9 +65,9 @@ Error: Request was cancelled.
     at async httpFetch (/tmp/claude-0/-home-user-gatorbait-media-redesign/cd3b0a89-2678-5856-96f6-cbc2d6d437c6/scratchpad/node_modules/undici/lib/web/fetch/index.js:1142:33)
     at async mainFetch (/tmp/claude-0/-home-user-gatorbait-media-redesign/cd3b0a89-2678-5856-96f6-cbc2d6d437c6/scratchpad/node_modules/undici/lib/web/fetch/index.js:596:20)
 [wrangler:info] Ready on http://127.0.0.1:8787
-[wrangler:info] GET / 200 OK (660ms)
-[wrangler:info] POST /room/game-2026-10-03/mod 200 OK (189ms)
-[wrangler:info] POST /room/game-2026-10-03/mod 200 OK (8ms)
-[wrangler:info] GET /token 200 OK (12ms)
-[wrangler:info] GET /room/game-2026-10-03/ws 101 Switching Protocols (8ms)
+[wrangler:info] GET / 200 OK (9ms)
+[wrangler:info] POST /room/game-2026-10-03/mod 200 OK (44ms)
+[wrangler:info] POST /room/game-2026-10-03/mod 200 OK (7ms)
+[wrangler:info] GET /token 200 OK (3ms)
+[wrangler:info] GET /room/game-2026-10-03/ws 101 Switching Protocols (6ms)
 ```
